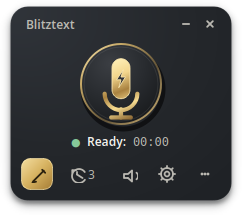
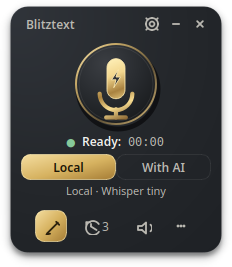
docs: show the Local | With AI switch in the Linux widget screenshots and captions

diff --git a/src/i18n/de.ts b/src/i18n/de.ts
@@ -39,7 +39,7 @@ export const de = {
     lead: 'Blitztext Linux nimmt deine Stimme per Hotkey oder Klick auf, transkribiert sie standardmäßig lokal mit Whisper und legt den Text in die Zwischenablage – auf Wunsch mit automatischem Einfügen in die aktive Anwendung. Optionale KI-Workflows verbessern den Text, bevor du ihn weiterverwendest.',
     ctaPrimary: 'Installation ansehen',
     ctaSecondary: 'Quellcode auf GitHub',
-    imgAlt: 'Single-Panel-Widget von Blitztext Linux mit goldenem Mikrofon-Button, Statusanzeige „Bereit“ und Werkzeugleiste für Compose, Verlauf, Vorlesen und Einstellungen',
+    imgAlt: 'Single-Panel-Widget von Blitztext Linux mit goldenem Mikrofon-Button, Umschalter „Lokal | Mit KI“ und Werkzeugleiste für Compose, Verlauf und Vorlesen; das Einstellungs-Zahnrad sitzt in der Titelleiste',
     imgCaption: 'Das echte Single-Panel-Widget von Blitztext Linux',
     facts: [
       { label: 'Lizenz', value: 'MIT, Open Source' },
@@ -162,7 +162,7 @@ export const de = {
     items: [
       {
         src: '/screenshots/main-idle-de.png',
-        alt: 'Single-Panel-Widget mit goldenem Mikrofon-Button, grünem Statuspunkt, Anzeige „Bereit“ und Werkzeugleiste',
+        alt: 'Single-Panel-Widget mit goldenem Mikrofon-Button, Umschalter „Lokal | Mit KI“, Zustandszeile und Werkzeugleiste',
         caption: 'Widget: bereit',
       },
       {
@@ -177,8 +177,8 @@ export const de = {
       },
       {
         src: '/screenshots/main-menu-de.png',
-        alt: 'Aktions-Menü des Widgets mit Diktieren & verbessern, Text-Aktion, eigener Anweisung, Sammel-Diktat und Verwerfen',
-        caption: 'Widget: Aktions-Menü',
+        alt: 'Detail-Popup des Widgets für „Mit KI“ mit Aktion, Schreibstil, KI-Anbieter, Whisper-Modell, Fertig, Sammel-Diktat und Verwerfen',
+        caption: 'Widget: Lokal | Mit KI und Details',
       },
       {
         src: '/screenshots/compose-de.png',

diff --git a/src/i18n/en.ts b/src/i18n/en.ts
@@ -40,7 +40,7 @@ export const en: typeof de = {
     lead: 'Blitztext Linux records your voice via hotkey or click, transcribes it locally with Whisper by default, and puts the text on your clipboard – with optional automatic pasting into the active application. Optional AI workflows polish the text before you use it.',
     ctaPrimary: 'See installation',
     ctaSecondary: 'Source code on GitHub',
-    imgAlt: 'Blitztext Linux single-panel widget with a gold microphone button, “Ready” status, and a tool row for compose, history, read aloud, and settings',
+    imgAlt: 'Blitztext Linux single-panel widget with a gold microphone button, a Local | With AI switch, and a tool row for compose, history, and read aloud; the settings gear sits in the title bar',
     imgCaption: 'The real Blitztext Linux single-panel widget',
     facts: [
       { label: 'License', value: 'MIT, open source' },
@@ -163,7 +163,7 @@ export const en: typeof de = {
     items: [
       {
         src: '/screenshots/main-idle-en.png',
-        alt: 'Single-panel widget with a gold microphone button, green status dot, “Ready” label, and tool row',
+        alt: 'Single-panel widget with a gold microphone button, a Local | With AI switch, a state line, and a tool row',
         caption: 'Widget: ready',
       },
       {
@@ -178,8 +178,8 @@ export const en: typeof de = {
       },
       {
         src: '/screenshots/main-menu-en.png',
-        alt: 'Widget options menu with Dictate & improve, text action, custom instruction, batch dictation, and discard',
-        caption: 'Widget: options menu',
+        alt: 'Widget details popup for With AI with action, writing style, AI provider, Whisper model, Done, batch dictation, and discard',
+        caption: 'Widget: Local | With AI and details',
       },
       {
         src: '/screenshots/compose-en.png',
